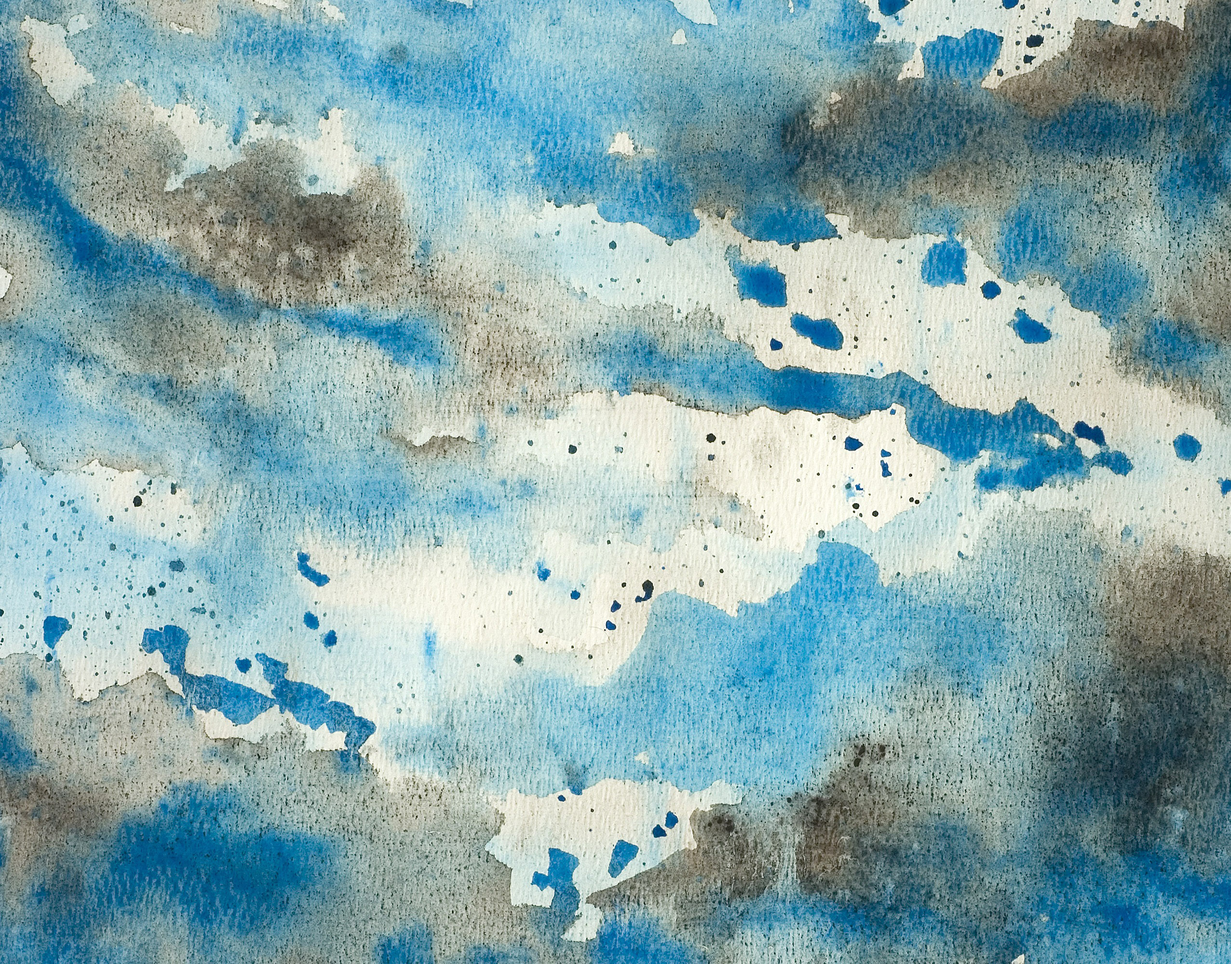
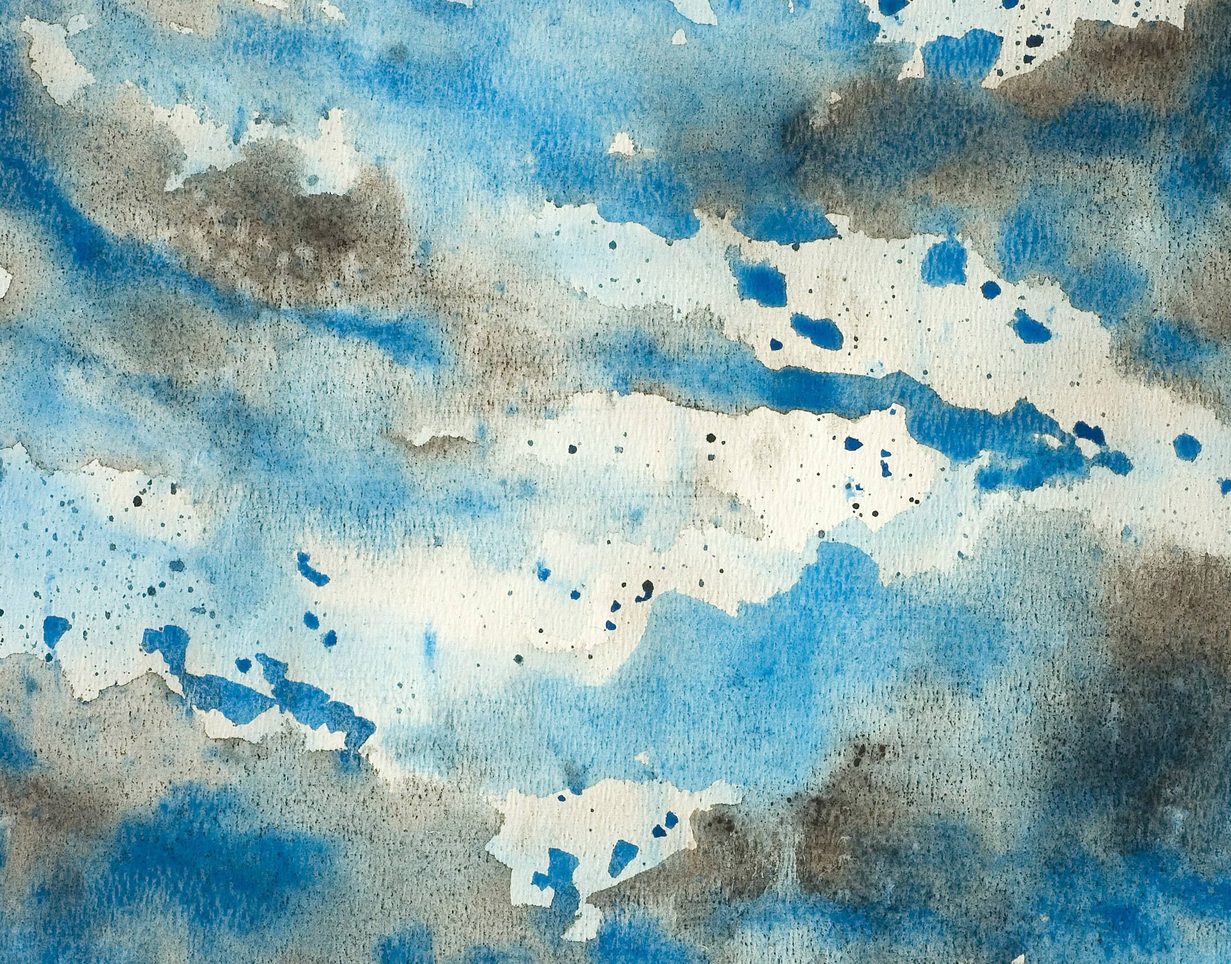
added lazy loading and compressed images

diff --git a/src/App.js b/src/App.js
@@ -1,33 +1,35 @@
-import React from "react";
+import React, { lazy, Suspense } from "react";
 import {
   BrowserRouter as Router,
   Switch,
   Route,
 } from "react-router-dom";
-import Navbar from "./components/navbar/Navbar";
-import Home from "./views/home/Home";
-import Problems from "./views/problems/Problems";
-import Problem from "./components/problem/Problem";
 import BackgroundImage from "./components/general/BackgroundImage";
+import Navbar from "./components/navbar/Navbar"
 import './App.css';
+const Home = lazy(() => import("./views/home/Home"));
+const Problems = lazy(() => import("./views/problems/Problems"));
+const Problem = lazy(() => import("./components/problem/Problem"));
 
 export default function App() {
   return (
     <Router>
       <div className="app">
-        <BackgroundImage/>
-        <Navbar/>
-        <Switch>
-          <Route path="/problems/:problemID">
-            <Problem />
-          </Route>
-          <Route path="/problems">
-            <Problems />
-          </Route>
-          <Route path="/">
-            <Home />
-          </Route>
-        </Switch>
+        <Suspense fallback={<div>Loading</div>}>
+          <BackgroundImage/>
+          <Navbar/>
+          <Switch>
+            <Route path="/problems/:problemID">
+              <Problem />
+            </Route>
+            <Route path="/problems">
+              <Problems />
+            </Route>
+            <Route path="/">
+              <Home />
+            </Route>
+          </Switch>
+        </Suspense>
       </div>
     </Router>
   );

diff --git a/src/consts/problemIDtoProblem.js b/src/consts/problemIDtoProblem.js
@@ -8,6 +8,8 @@ const problemDict = {
     "two-knights": "Two Knights",
     "two-sets": "Two Sets",
     "bit-strings": "Bit Strings",
+    "trailing-zeros": "Trailing Zeros",
+    "coin-piles": "Coin Piles"
 }
 
 export default problemDict;

diff --git a/src/assets/markdowns/trailing-zeros.md b/src/assets/markdowns/trailing-zeros.md
@@ -1,0 +1,32 @@
+# Trailing Zeros
+## Explanation
+This problem involved finding the number of trailing zeroes in a factorial. To find this number,  
+we need to calculate the total number of factors of five in each term we multiply. We do this  
+calculation because for every factor of five, there is a factor of two lying around (and there  
+are more factors of two than of five). Since 5 * 2 = 10, every factor of five will contribute one  
+zero. If a term has multiple factors of five, it will contribute multiple zeroes. 
+
+The first approach would be to iterate through the numbers from 1 to n and see how many times you  
+can evenly divide the number by 5. At best, this approach takes O(n). We can do better! Another  
+approach is to keep dividing n by 5 until it equals 0. We do this because when you divide by 5  
+the first time, you are essentially finding how many terms in the factorial have a single factor  
+of five. The next time you divide by 5, you are looking for those terms with an additional factor  
+of 5. You repeat this process, and you can get your answer.
+## Code
+    #include <iostream>
+    #define ll long long
+    using namespace std;
+
+    int main()
+    {
+        ll n;
+        cin >> n;
+        ll num_zeroes = 0;
+        while (n > 0) {
+            num_zeroes += (n / 5);
+            n /= 5;
+        }
+        cout << num_zeroes << endl;
+    
+        return 0;
+    }

diff --git a/src/assets/markdowns/coin-piles.md b/src/assets/markdowns/coin-piles.md
@@ -1,0 +1,33 @@
+# Coin Piles
+## Explanation
+Each move, you are removing 3 coins from the pile. If the total number of coins is not a multiple  
+of 3, you cannot remove every coin using the described moves. Since you remove 3 coins each time,  
+you need to take (a + b) / 3 moves. That means that the minimum number of coins that a pile can  
+have is (a + b) / 3. If both piles have at least (a + b) / 3 coins, then you will be able to  
+remove every coin. The piles will not run out because we can always alternate the way we remove  
+coins so that we remove 2 coins from the larger pile and 1 coin from the smaller pile.
+## Code
+    #include <iostream>
+    using namespace std;
+
+    int main()
+    {
+        int t, a, b;
+        cin >> t;
+        
+        for (int i = 0; i < t; i++) {
+            cin >> a >> b;
+            if ((a + b) % 3 != 0) {
+                cout << "NO" << endl;
+            } else {
+                int num_removals = (a + b) / 3;
+                if (a >= num_removals && b >= num_removals) {
+                    cout << "YES" << endl;
+                } else {
+                    cout << "NO" << endl;
+                }
+            }
+        }
+    
+        return 0;
+    }

diff --git a/src/assets/markdowns/two-sets.md b/src/assets/markdowns/two-sets.md
@@ -12,7 +12,7 @@ I determined that fact by noticing this: once you find k distinct numbers from 1
 (1 + n) * n / 4, the rest of the numbers from 1 to n will also sum (1 + n) * n / 4. If you try to  
 create this sum by choosing numbers in a decreasing order (so your first pick number is the  
 largest one and your last pick is the smallest one), then I do not see how you cannot end up with  
-desired sum. Unfortunately, I do not have a rock solid explanation, but that approach seemed to   work.
+desired sum. Unfortunately, I do not have a rock solid explanation, but that approach seemed to work.
 
 ## Code
     #include <iostream>
